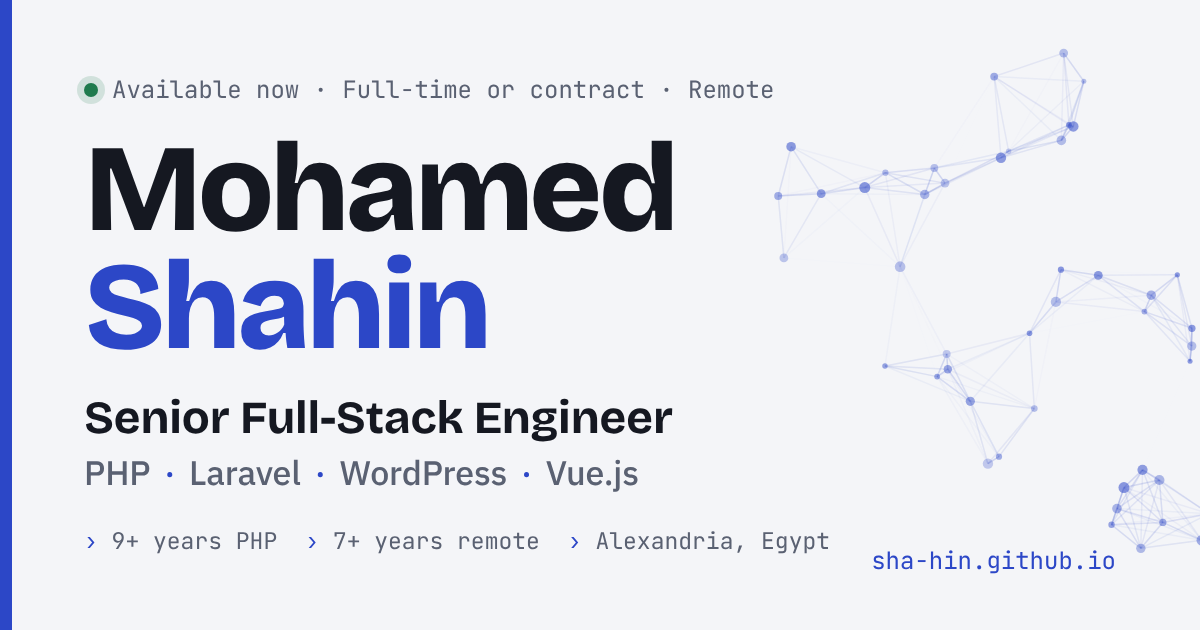
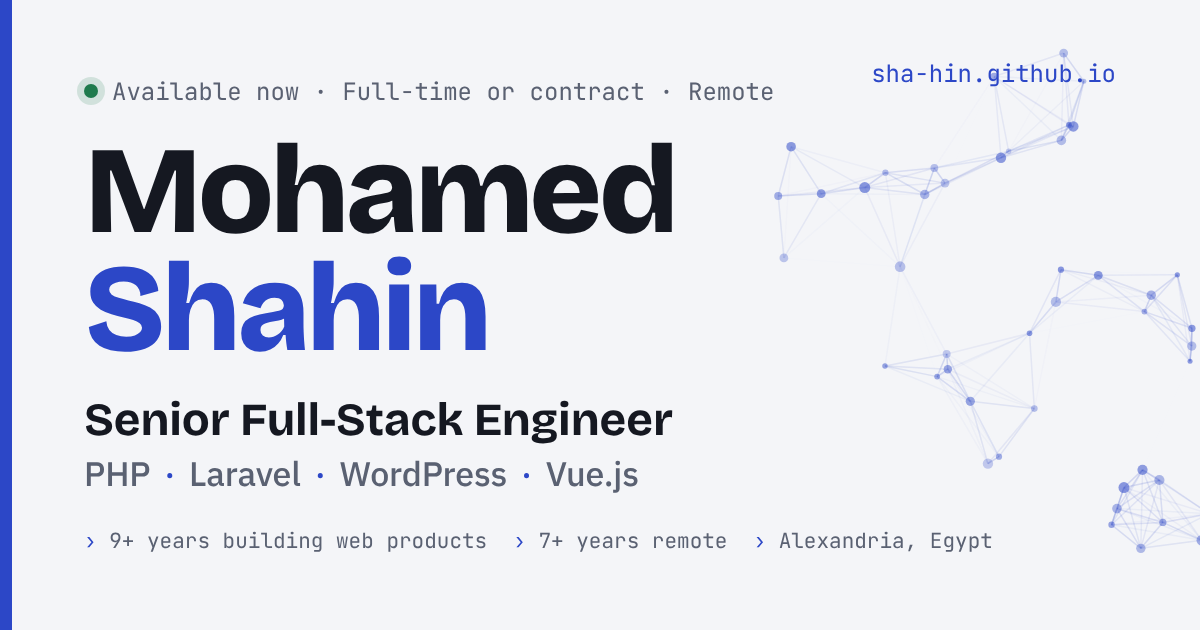
Say 9+ years building web products instead of 9+ years of PHP
Claude-Session: https://claude.ai/code/session_01CsHYu4G12v7fMJ4uKmRUHk

diff --git a/index.html b/index.html
@@ -3,7 +3,7 @@
 <head>
 <meta charset="utf-8">
 <meta name="viewport" content="width=device-width, initial-scale=1, viewport-fit=cover">
-<meta name="description" content="Senior Full-Stack Engineer: PHP, Laravel, WordPress and Vue.js. 9+ years of PHP, 7+ years remote for Copenhagen-based product companies. AI-assisted development.">
+<meta name="description" content="Senior Full-Stack Engineer: PHP, Laravel, WordPress and Vue.js. 9+ years building web products, 7+ years remote for Copenhagen-based product companies. AI-assisted development.">
 <meta property="og:title" content="Mohamed Shahin">
 <meta property="og:description" content="Senior Full-Stack Engineer · PHP · Laravel · WordPress · Vue.js · AI-Assisted Development">
 <meta property="og:type" content="website">
@@ -19,7 +19,7 @@
 <meta name="twitter:image" content="https://sha-hin.github.io/og.png">
 <meta name="google-site-verification" content="QuO_gf4QBvmKJYeUBvMGkcorc2n849Qp0XIqAGjEP1E">
 <link rel="canonical" href="https://sha-hin.github.io/">
-<script type="application/ld+json">{"@context":"https://schema.org","@graph":[{"@type":"Person","@id":"https://sha-hin.github.io/#person","name":"Mohamed Shahin","jobTitle":"Senior Full-Stack Engineer","url":"https://sha-hin.github.io/","image":"https://sha-hin.github.io/og.png","description":"Senior Full-Stack Engineer with 9+ years of PHP across Laravel and WordPress, 7+ years remote for Copenhagen-based product companies.","address":{"@type":"PostalAddress","addressLocality":"Alexandria","addressCountry":"EG"},"sameAs":["https://linkedin.com/in/sr-mohamed-shahin"],"knowsAbout":["PHP","Laravel","WordPress","Vue.js","TypeScript","MySQL","Multi-tenant SaaS","WooCommerce","REST APIs","AI-assisted development"],"knowsLanguage":["ar","en"]},{"@type":"WebSite","@id":"https://sha-hin.github.io/#website","url":"https://sha-hin.github.io/","name":"Mohamed Shahin","inLanguage":"en","publisher":{"@id":"https://sha-hin.github.io/#person"},"alternateName":["Mohamed Shahin Portfolio","sha-hin.github.io"]}]}</script>
+<script type="application/ld+json">{"@context":"https://schema.org","@graph":[{"@type":"Person","@id":"https://sha-hin.github.io/#person","name":"Mohamed Shahin","jobTitle":"Senior Full-Stack Engineer","url":"https://sha-hin.github.io/","image":"https://sha-hin.github.io/og.png","description":"Senior Full-Stack Engineer with 9+ years building web products, 7+ years remote for Copenhagen-based product companies.","address":{"@type":"PostalAddress","addressLocality":"Alexandria","addressCountry":"EG"},"sameAs":["https://linkedin.com/in/sr-mohamed-shahin"],"knowsAbout":["PHP","Laravel","WordPress","Vue.js","TypeScript","MySQL","Multi-tenant SaaS","WooCommerce","REST APIs","AI-assisted development"],"knowsLanguage":["ar","en"]},{"@type":"WebSite","@id":"https://sha-hin.github.io/#website","url":"https://sha-hin.github.io/","name":"Mohamed Shahin","inLanguage":"en","publisher":{"@id":"https://sha-hin.github.io/#person"},"alternateName":["Mohamed Shahin Portfolio","sha-hin.github.io"]}]}</script>
 <link rel="icon" href="/favicon.ico" sizes="any">
 <link rel="icon" type="image/png" sizes="192x192" href="/favicon-192.png">
 <link rel="icon" type="image/png" sizes="32x32" href="/favicon-32.png">
@@ -427,7 +427,7 @@ footer{font-family:var(--mono);font-size:12px;color:var(--muted)}
     <h1>Mohamed <span>Shahin</span></h1>
     <p class="role"><span class="title">Senior Full-Stack Engineer</span> <span class="stack">PHP <i>·</i> Laravel <i>·</i> WordPress <i>·</i> Vue.js</span></p>
     <p class="ai-badge"><svg viewBox="0 0 24 24" aria-hidden="true"><path d="M12 2l1.9 5.6L19.5 9.5l-5.6 1.9L12 17l-1.9-5.6L4.5 9.5l5.6-1.9z"/><path d="M19 15l.8 2.2L22 18l-2.2.8L19 21l-.8-2.2L16 18l2.2-.8z"/></svg><b>AI-assisted development</b></p>
-    <p class="lede"><b>9+ years of PHP</b>, <b>7+ years remote</b> for Copenhagen-based product companies. I was the founding engineer of a GDPR-compliant multi-tenant Laravel SaaS used by Danish schools and a municipality, and I built a cybersecurity vendor's CRM, then moved it off WordPress onto Laravel to fix its performance. Today I build with <b>AI coding tools</b> every day and review every change before it ships.</p>
+    <p class="lede"><b>9+ years building web products</b>, <b>7+ years remote</b> for Copenhagen-based product companies. I was the founding engineer of a GDPR-compliant multi-tenant Laravel SaaS used by Danish schools and a municipality, and I built a cybersecurity vendor's CRM, then moved it off WordPress onto Laravel to fix its performance. Today I build with <b>AI coding tools</b> every day and review every change before it ships.</p>
     <ul class="facts">
       <li>Alexandria, Egypt</li>
       <li>Works CET &amp; US hours</li>
